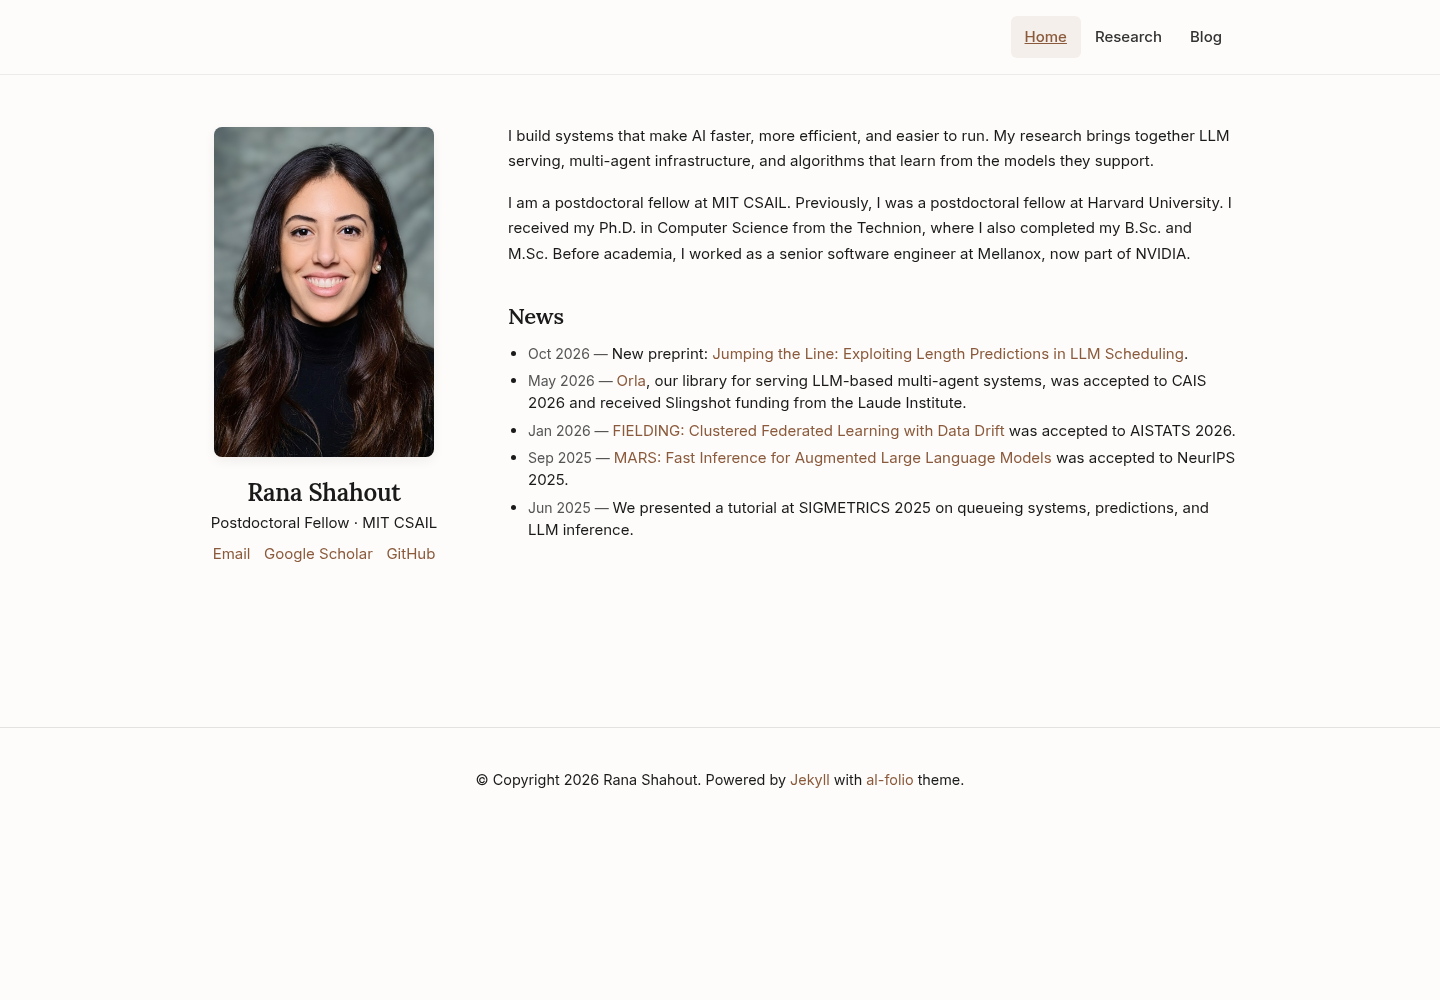
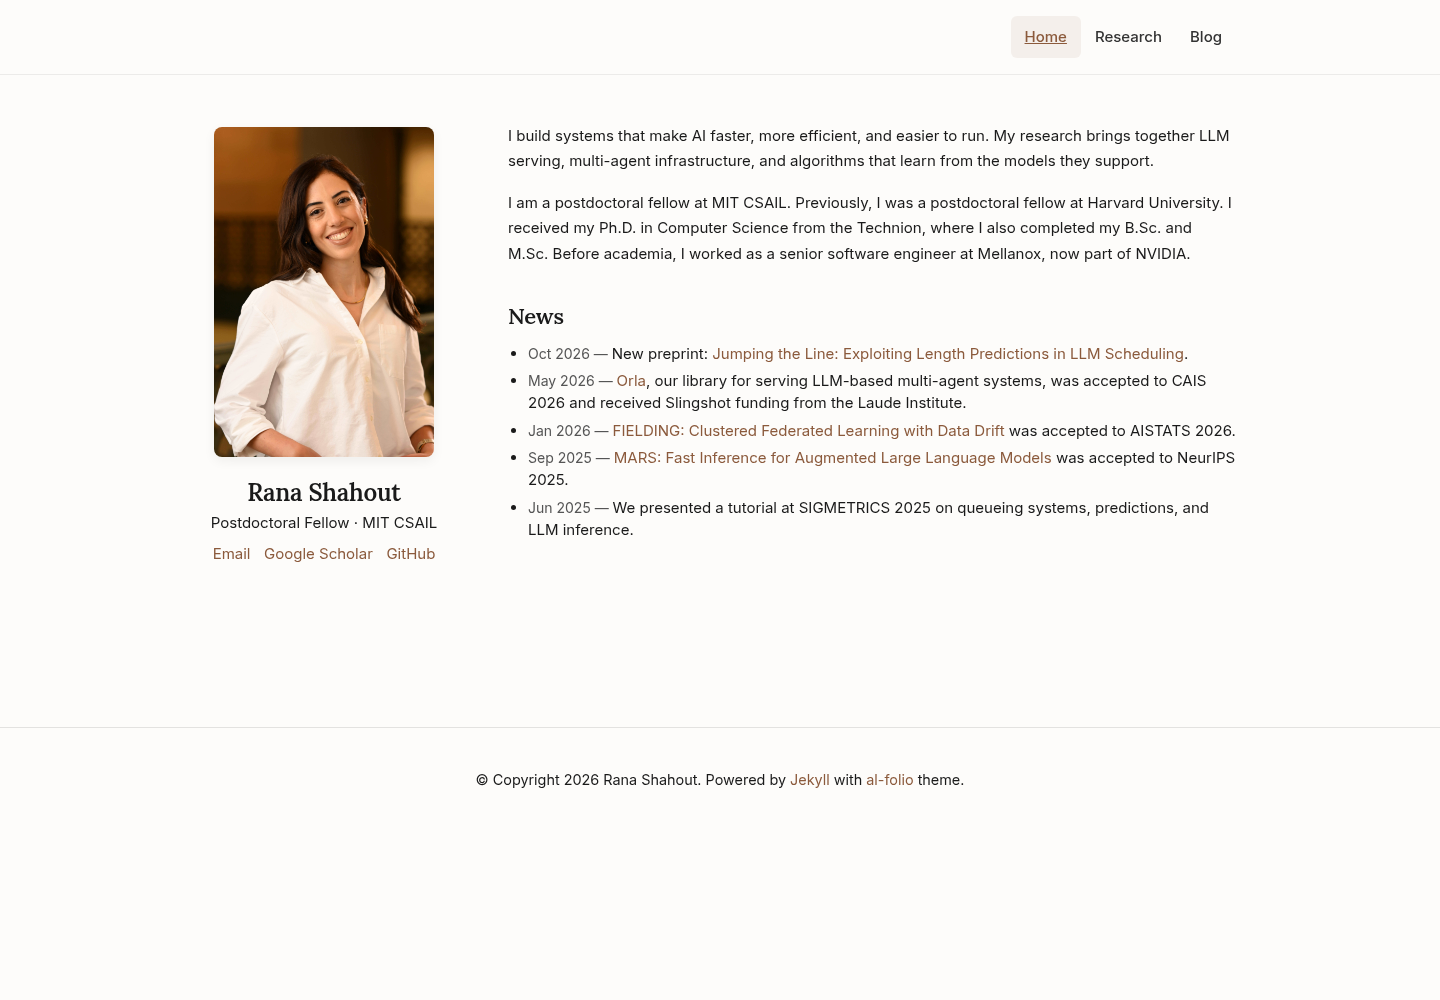
Use uploaded portrait on homepage

Changed region(s): [[0.125, 0.124, 0.3125, 0.465]]

diff --git a/assets/css/home.css b/assets/css/home.css
@@ -156,13 +156,24 @@ body > header {
   display: block;
   width: 100%;
   max-width: 220px;
-  height: auto;
+  aspect-ratio: 2 / 3;
+  overflow: hidden;
   margin: 0.25rem auto 1.25rem;
   border-radius: 8px;
   box-shadow: 0 4px 12px rgba(0, 0, 0, 0.06);
   transition:
     transform 0.25s ease,
     box-shadow 0.25s ease;
+}
+
+/* Frame the uploaded portrait without changing the original image. */
+.home-photo img {
+  display: block;
+  width: 100%;
+  height: 100%;
+  object-fit: cover;
+  transform: scale(1.6);
+  transform-origin: 50% 40%;
 }
 
 .home-photo:hover {

diff --git a/_pages/about.md b/_pages/about.md
@@ -9,7 +9,9 @@ description: Rana Shahout is a postdoctoral fellow at MIT CSAIL working on AI sy
 
 <div class="home-page">
   <aside class="home-profile" aria-labelledby="home-title">
-    <img class="home-photo" src="{{ '/assets/img/rana.jpg' | relative_url }}" alt="Rana Shahout" width="396" height="594" fetchpriority="high">
+    <div class="home-photo">
+      <img src="{{ '/assets/img/Rana_Shahout_013.JPG' | relative_url }}" alt="Rana Shahout" width="1280" height="1920" fetchpriority="high">
+    </div>
     <div class="home-profile-info">
       <h1 id="home-title">Rana Shahout</h1>
       <p class="home-affiliation">Postdoctoral Fellow · MIT CSAIL</p>
